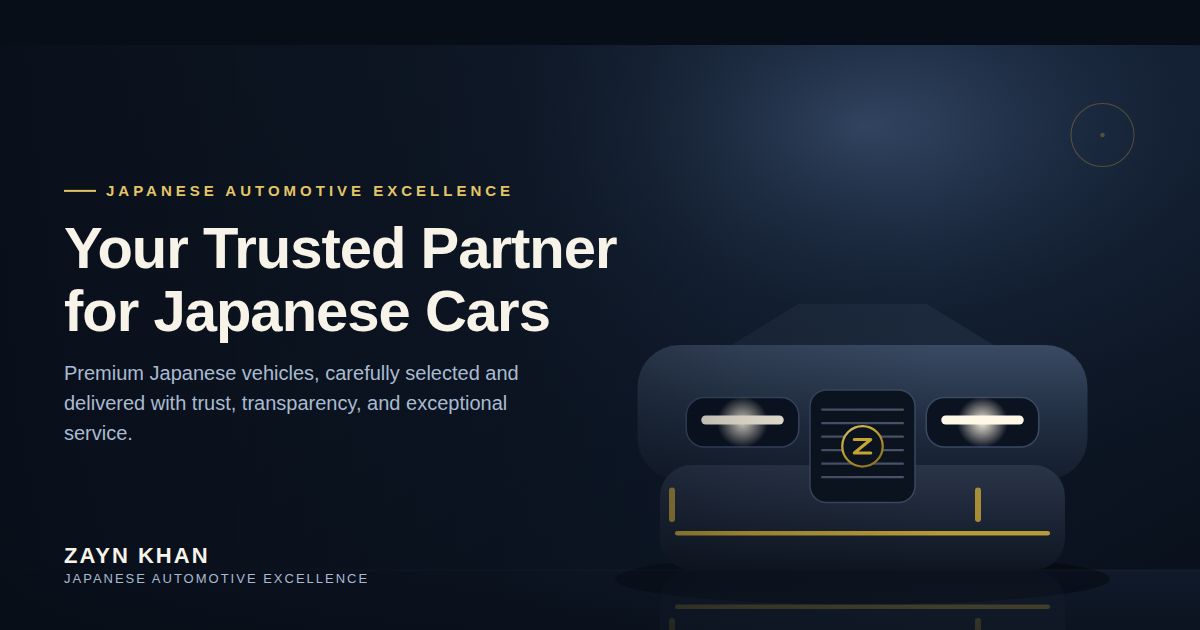
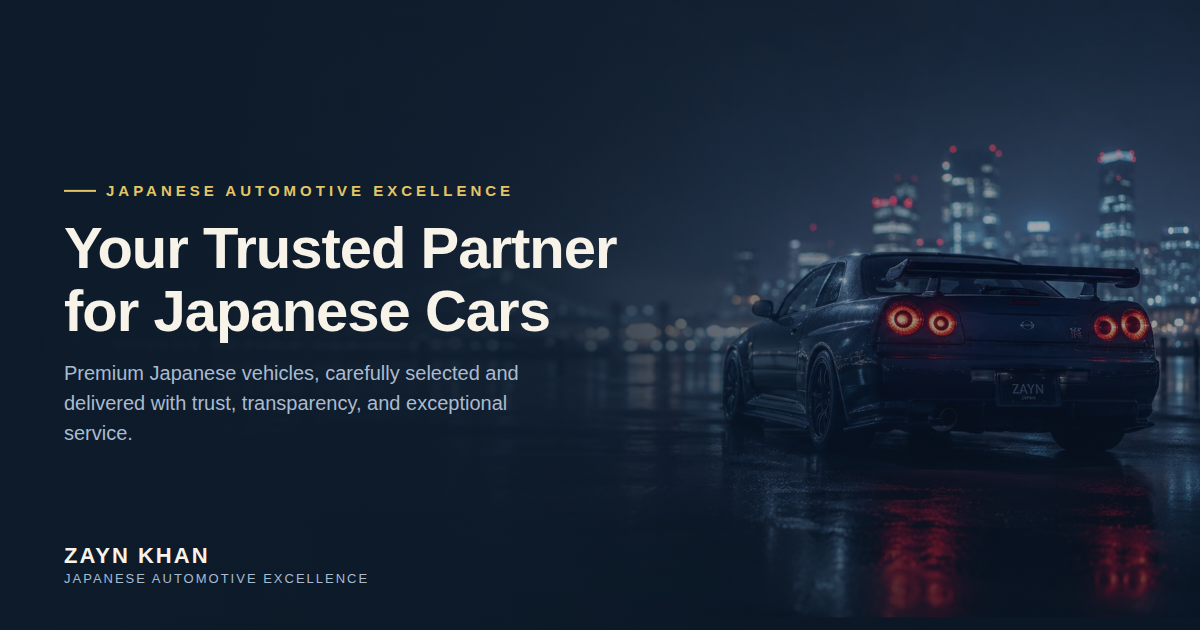
Swap hero image for the Nissan GT-R night photo
Replace the front-on car illustration with the provided photo (Nissan
Skyline GT-R, rain-slicked waterfront, city skyline at night). Converted
the source PNG (1.5MB) to an optimized JPEG (~105KB) since it's loaded
eagerly on every page view. Tuned object-position so the car stays
reasonably framed from mobile through ultra-wide, and reused the
existing dark gradient overlay system so the heading/subtitle/CTAs stay
legible on top. Removed the now-unused hero.svg and the raw uploaded
PNG, and regenerated the OG share image to match.

diff --git a/src/components/Hero.jsx b/src/components/Hero.jsx
@@ -2,7 +2,7 @@ import { useEffect, useState } from "react";
 import { motion, useReducedMotion } from "framer-motion";
 import { ChevronDown } from "lucide-react";
 
-const HERO_IMAGE = "/images/hero.svg";
+const HERO_IMAGE = "/images/hero.jpg";
 
 const container = {
   hidden: {},
@@ -52,8 +52,8 @@ export default function Hero() {
       >
         <img
           src={HERO_IMAGE}
-          alt="Illustration of a premium car under showroom spotlights with a reflective floor, representing Zayn Khan's Japanese car showroom"
-          className="h-full w-full object-cover object-[72%_62%] sm:object-center"
+          alt="A Nissan Skyline GT-R parked on a rain-slicked waterfront at night, city skyline glowing in the background"
+          className="h-full w-full object-cover object-[78%_58%] sm:object-[70%_55%]"
           fetchPriority="high"
         />
       </div>

diff --git a/README.md b/README.md
@@ -43,7 +43,7 @@ public/
 
 ## Images
 
-The hero section uses bundled local SVG artwork (`public/images/hero.svg`, a car-showroom scene) so the site has zero external image dependencies out of the box. The About section uses `public/images/AboutMe.jpeg`. To swap in different imagery, drop files into `public/images/` and update the `HERO_IMAGE` / `ABOUT_IMAGE` constants in `src/components/Hero.jsx` and `src/components/About.jsx`.
+The hero section uses `public/images/hero.jpg` and the About section uses `public/images/AboutMe.jpeg`. To swap in different imagery, drop a file into `public/images/` and update the `HERO_IMAGE` / `ABOUT_IMAGE` constants in `src/components/Hero.jsx` and `src/components/About.jsx`.
 
 ## WhatsApp integration
 
